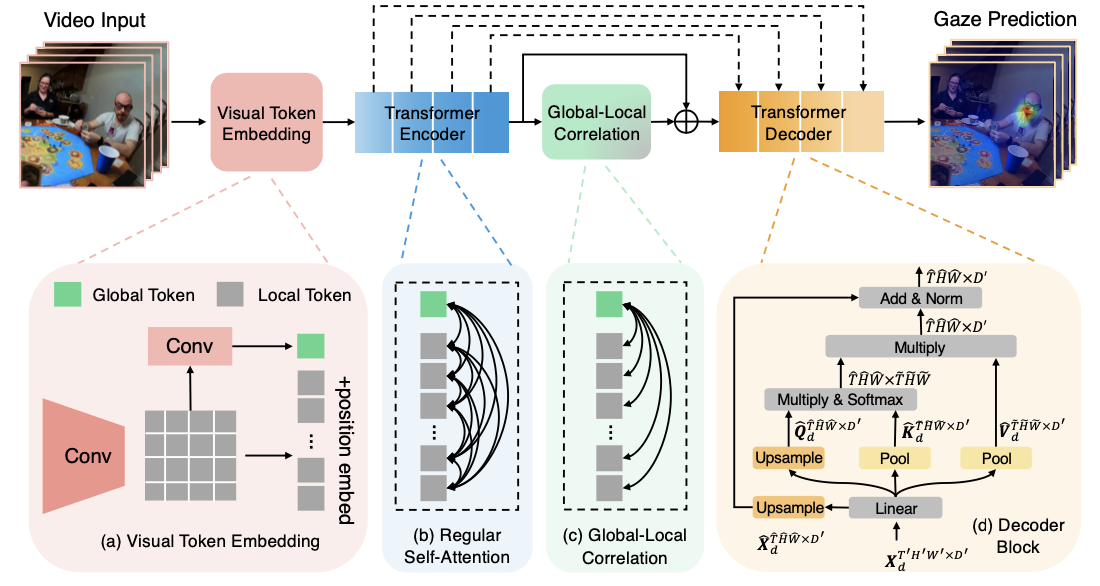
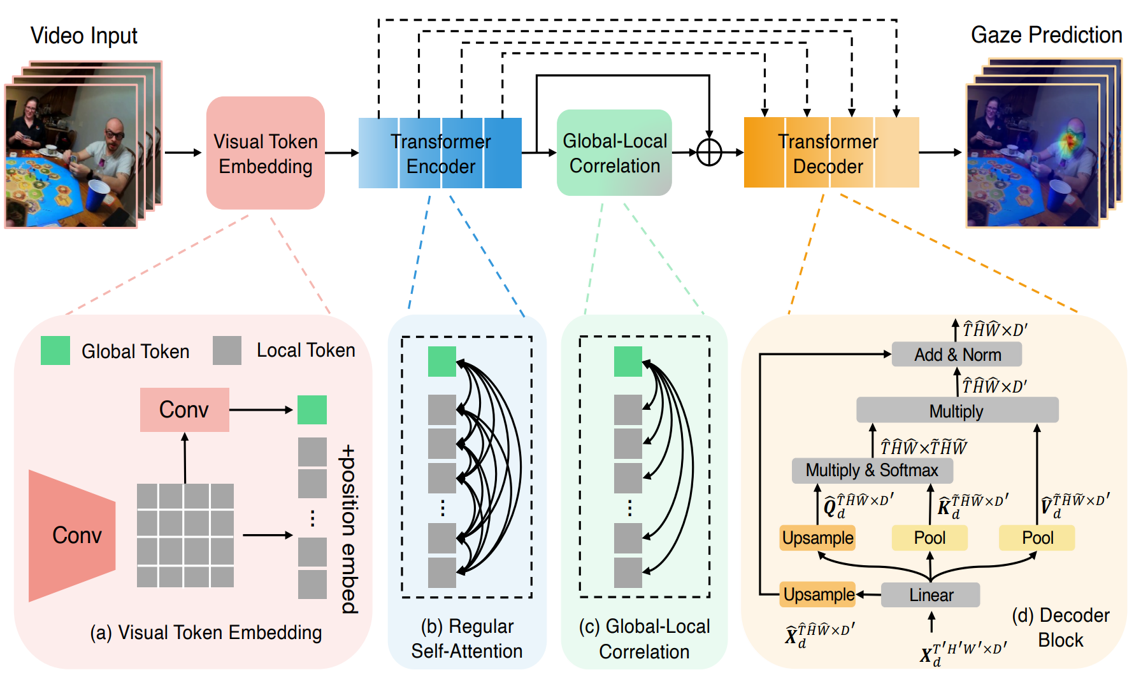
change figure ratio

diff --git a/themes/academic/layouts/partials/li_compact_pub.html b/themes/academic/layouts/partials/li_compact_pub.html
@@ -42,8 +42,8 @@
   <div class="align-self-center mr-3">
     {{ $resource := ($item.Resources.ByType "image").GetMatch "*featured*" }}
     {{ with $resource }}
-    {{ $image := .Resize "250x" }}
-    <img src="{{ $image.RelPermalink }}" alt="{{ $item.Title }}">
+    {{ $image := .Resize "500x" }}
+    <img src="{{ $image.RelPermalink }}" alt="{{ $item.Title }}" width="200">
     {{end}}
   </div>
 
@@ -52,20 +52,20 @@
     <h3 class="article-title mb-0 mt-0">
     {{ $item.Title }}
     </h3>
-    
+
     <h3 class="article-venue mb-0 mt-0">
     {{ with $venue }}
         {{.}}
     {{ end }}
     </h3>
-     
+
     <h3 class="article-venue mb-0 mt-0">
     {{ with $summary }}
         {{.}}
     {{ end }}
     </h3>
-  
-    
+
+
     <div class="stream-meta article-metadata">
 
       {{ if eq $item.Type "talk" }}

diff --git a/themes/academic/layouts/partials/li_compact.html b/themes/academic/layouts/partials/li_compact.html
@@ -46,7 +46,7 @@
     <h3 class="article-title mb-0 mt-0">
       <a href="{{$link}}" {{ $target | safeHTMLAttr }}>{{ $item.Title }}</a>
     </h3>
-    
+
     {{ with $summary }}
         {{.}}
     {{ end }}
